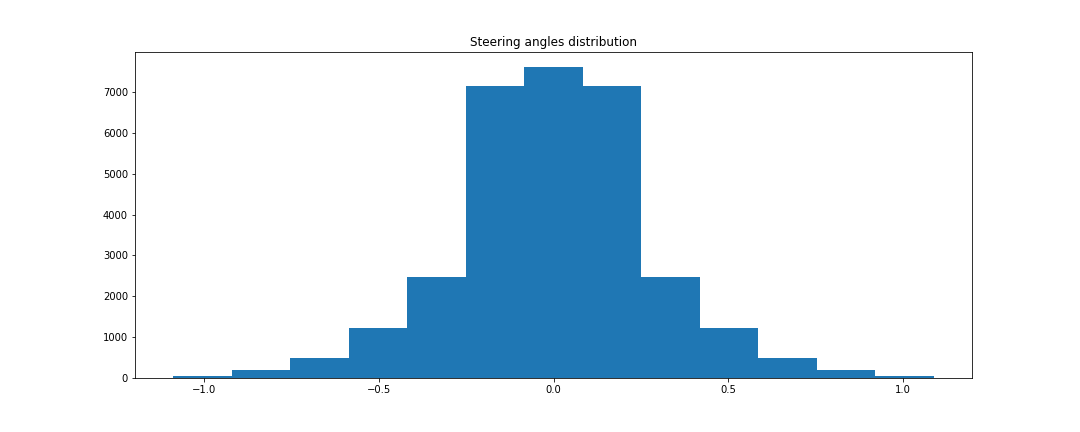
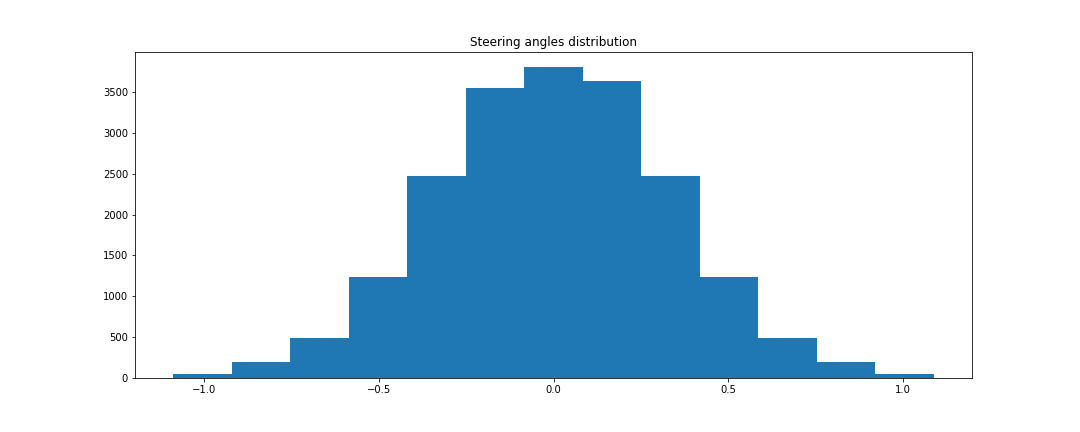
Performance improvements, added dropout

diff --git a/model.py b/model.py
@@ -2,6 +2,8 @@ import os
 import time
 
 import tensorflow as tf
+import matplotlib.pyplot as plt
+import numpy as np
 
 from data_loader import DataLoader
 from image_processor import output_shape
@@ -12,15 +14,21 @@ from sklearn.model_selection import train_test_split
 from keras.models import Model
 from keras.layers import Input, Lambda, Dense, Flatten, Convolution2D, Dropout
 from keras.optimizers import Adam
-from keras.callbacks import TensorBoard
+from keras.callbacks import TensorBoard, EarlyStopping
 
-DATA_DIR = 'data'
+
+DATA_DIR   = 'data'
 TRAIN_FILE = os.path.join(DATA_DIR, 'train.p')
-LOG_FILE = os.path.join(DATA_DIR, 'driving_log.csv')
-IMG_DIR = os.path.join(DATA_DIR, 'IMG')
-LOGS_DIR = './logs'
+LOG_FILE   = os.path.join(DATA_DIR, 'driving_log.csv')
+IMG_DIR    = os.path.join(DATA_DIR, 'IMG')
+LOGS_DIR   = 'logs'
+MODELS_DIR = 'models'
 
-# TODO Create logs dir if does not exist
+if not os.path.isdir(LOGS_DIR):
+    os.makedirs(LOGS_DIR)
+
+if not os.path.isdir(MODELS_DIR):
+    os.makedirs(MODELS_DIR)
 
 flags = tf.app.flags
 FLAGS = flags.FLAGS
@@ -30,92 +38,136 @@ flags.DEFINE_integer('epochs', 3, "The number of epochs.")
 flags.DEFINE_integer('batch_size', 64, "The batch size.")
 flags.DEFINE_float('learning_rate', 0.001, "The learning rate.")
 flags.DEFINE_string('loss', 'mse', 'The loss function')
+flags.DEFINE_float('dropout', 0.2, 'The dropout probabilty')
 
-def build_model(input_shape):
+def build_model(input_shape, dropout_prob = FLAGS.dropout, activation = 'relu'):
     '''
     Defines the keras model based on the Nvidia end-to-end paper: https://arxiv.org/pdf/1604.07316v1.pdf
     '''
     # The images captured by the simulator
-    model_in = Input(shape = input_shape)
-
-    # TODO Test if processing it here would speed up with GPU
-    # model_in = Input(shape = (160, 320, 3))
-    # x = Cropping2D(cropping = ((50, 20), (0, 0)))(model_in)
-    # x = Lambda(lambda x: tf.image.resize_images(x, (200, 66), method = tf.image.ResizeMethod.AREA))(x)
-    # x = Lambda(lambda x: x/255.0 - 0.5)(x)
+    model_in = Input(shape = input_shape) # 200x66@3
 
     # Normalize
     x = Lambda(lambda x: x/255.0 - 0.5)(model_in)
 
     # First three convolutions (filter size 5, stride 2x2)
-    x = Convolution2D(24, 5, 5, subsample=(2, 2), activation='relu')(x)
-    x = Convolution2D(36, 5, 5, subsample=(2, 2), activation='relu')(x)
-    x = Convolution2D(48, 5, 5, subsample=(2, 2), activation='relu')(x)
+    x = Convolution2D(24, 5, 5, subsample = (2, 2), activation = activation)(x) # 98x31@24
+    x = Convolution2D(36, 5, 5, subsample = (2, 2), activation = activation)(x) # 47x14@36
+    x = Convolution2D(48, 5, 5, subsample = (2, 2), activation = activation)(x) #  22x5@48
 
     # An adddional two convolutions with smaller filters (filter size 3)
-    x = Convolution2D(64, 3, 3)(x)
-    x = Convolution2D(64, 3, 3)(x)
+    x = Convolution2D(64, 3, 3, activation = activation)(x) #20x3@64
+    x = Convolution2D(64, 3, 3, activation = activation)(x) #18x1@64
 
     # Flatten
-    x = Flatten()(x)
+    x = Flatten()(x) # 1152
+    x = Dropout(p = dropout_prob)(x)
+    
+    x = Dense(100, activation = activation)(x)
+    x = Dense(50, activation = activation)(x)
+    x = Dense(10, activation = activation)(x)
 
-    x = Dropout(p = 0.5)(x)
-    x = Dense(100)(x)
-    x = Dropout(p = 0.5)(x)
-    x = Dense(50)(x)
-    x = Dense(10)(x)
-
+    # The output is the steering angle
     model_out = Dense(1)(x)
 
     return Model(input = model_in, output = model_out)
 
+def plot_history(model_name, history):
+    
+    train_log = history.history['loss']
+    valid_log = history.history['val_loss']
+    print(history.history)
+    
+    train_loss = train_log[-1]
+    valid_loss = valid_log[-1]
+    
+    text = 'Training/Validation Loss: {:.3f} / {:.3f}'.format(train_loss, valid_loss)
+    
+    colors = plt.rcParams['axes.prop_cycle'].by_key()['color']
+    
+    c1 = colors[0]
+    c2 = colors[1]
+    
+    fig, ax1 = plt.subplots(figsize=(9, 6))
+    
+    ax1.set_xlabel('Epochs')    
+    ax1.set_ylabel('Loss')
+
+    x = np.arange(1, len(train_log) + 1)
+    
+    ax1.plot(x, train_log, label='Train Loss', color = c1)
+    ax1.plot(x, valid_log, label='Validation Loss', color = c2)
+    
+    plt.title("{} (EP: {}, BS: {}, LR: {}, KP: {})".format(
+        model_name, FLAGS.epochs, FLAGS.batch_size, FLAGS.learning_rate, FLAGS.dropout
+    ))
+    
+    fig.text(0.5, 0, text,
+                verticalalignment='top', 
+                horizontalalignment='center',
+                color='black', fontsize=10)
+    
+    
+    handles, labels = ax1.get_legend_handles_labels()
+    
+    fig.legend(handles, labels, loc = (0.7, 0.5))
+    fig.tight_layout()
+    
+    fig.savefig(os.path.join('models', model_name), bbox_inches = 'tight')
+    
+    #plt.show()
+
 def main(_):
     data_loader = DataLoader(TRAIN_FILE, LOG_FILE, IMG_DIR)
 
-    # Loads the dataset
     images, measurements = data_loader.load_dataset()
 
     print('Total samples: {}'.format(images.shape[0]))
 
     # Split in training and validation
     X_train, X_valid, Y_train, Y_valid = train_test_split(images, measurements, 
-                                                        test_size = 0.2, 
-                                                        random_state = 13)
+                                                          test_size = 0.2, 
+                                                          random_state = 13)
 
     print('Training samples: {}'.format(X_train.shape[0]))
     print('Validation samples: {}'.format(X_valid.shape[0]))
 
-    epochs = FLAGS.epochs
-    batch_size = FLAGS.batch_size
-    learning_rate = FLAGS.learning_rate
-    loss = FLAGS.loss
-
-    train_generator = data_loader.generator(X_train, Y_train, batch_size)
-    valid_generator = data_loader.generator(X_valid, Y_valid, batch_size)
+    train_generator = data_loader.generator(X_train, Y_train, FLAGS.batch_size)
+    valid_generator = data_loader.generator(X_valid, Y_valid, FLAGS.batch_size)
 
     model = build_model(output_shape())
 
-    model.compile(optimizer = Adam(lr = learning_rate), loss = loss)
-
-    # print(model.summary())
+    model.compile(optimizer = Adam(lr = FLAGS.learning_rate), loss = FLAGS.loss)
 
     date_time_str = time.strftime('%Y%m%d-%H%M%S')
 
-    # Used for tensor board visualizations
-    callbacks = [TensorBoard(log_dir = os.path.join(LOGS_DIR, date_time_str), 
-                                  histogram_freq = 0,
-                                  write_graph = True,
-                                  write_images = False)]
+    callbacks = [
+        TensorBoard(log_dir = os.path.join(LOGS_DIR, date_time_str), 
+                    histogram_freq = 0,
+                    write_graph = False,
+                    write_images = False),
+        EarlyStopping(monitor='val_loss', 
+                    patience = 3,
+                    verbose = 0, 
+                    mode = 'min')
+    ]
+    
+    print('Training on {} samples (EP: {}, BS: {}, LR: {}, DO: {})...'.format(
+        X_train.shape[0], FLAGS.epochs, FLAGS.batch_size, FLAGS.learning_rate, FLAGS.dropout
+    ))
     
     history = model.fit_generator(train_generator, 
-                                  nb_epoch = epochs,
+                                  nb_epoch = FLAGS.epochs,
                                   samples_per_epoch = X_train.shape[0],
                                   validation_data = valid_generator,
                                   nb_val_samples = X_valid.shape[0],
                                   callbacks = callbacks)
 
-    model.save('model_{}.h5'.format(date_time_str))
+    model_name = 'model_{}'.format(date_time_str)
 
+    model.save(os.path.join(MODELS_DIR, model_name + '.h5'))
+
+    plot_history(model_name, history)
 
 if __name__ == '__main__':
     tf.app.run()

diff --git a/data_loader.py b/data_loader.py
@@ -9,20 +9,25 @@ from tqdm import tqdm
 
 class DataLoader():
 
-    def __init__(self, train_file, log_file, img_folder, angle_correction = 0.2):
+    def __init__(self, train_file, log_file, img_folder, 
+                 angle_correction = 0.2, 
+                 path_separator = '\\',
+                 flip_min_angle = 0.25):
         self.train_file = train_file
         self.log_file = log_file
         self.img_folder = img_folder
         self.angle_correction = angle_correction
+        self.path_separator = path_separator
+        self.flip_min_angle = flip_min_angle
 
-    def load_dataset(self):
-        if os.path.isfile(self.train_file):
-            print('Training file exists, loading...')
-            images, measurements = self._read_pickle()
-        else:
-            print('Training file absent, processing data...')
+    def load_dataset(self, regenerate = False):
+        if regenerate or not os.path.isfile(self.train_file):
+            print('Processing data...')
             images, measurements = self._process_data()
             self._save_pickle(images, measurements)
+        else:
+            print('Training file exists, loading...')
+            images, measurements = self._read_pickle()
         
         return images, measurements
     
@@ -51,7 +56,6 @@ class DataLoader():
     def _process_data(self):
         
         images, measurements = self._load_data_log()
-        images, measurements = self._pack_left_right(images, measurements)
         images, measurements = self._flip_images(images, measurements)
         
         return images, measurements
@@ -64,39 +68,32 @@ class DataLoader():
         with open(self.log_file) as csvfile:
             reader = csv.reader(csvfile)
             for line in tqdm(reader, unit = ' lines', desc = 'CSV Processing'):
-                # Win vs linux separator from the simulator
-                if line[0].find("/") > -1:
-                    sep = '/'
-                else:
-                    sep = '\\'
-                center_img = line[0].split(sep)[-1]
-                left_img = line[1].split(sep)[-1]
-                right_img = line[2].split(sep)[-1]
-                steering_angle, throttle, break_force = line[3:6]
-                images.append((center_img, left_img, right_img))
-                measurements.append((float(steering_angle), float(throttle), float(break_force)))
+                line_images, line_measurements = self._parse_line(line)
+
+                images.extend(line_images)
+                measurements.extend(line_measurements)
                 
         return np.array(images), np.array(measurements)
 
-    def _pack_left_right(self, images, measurements):
-        
-        new_images = []
-        new_measurements = []
-        
-        for image, measurement in tqdm(zip(images, measurements), unit = ' images', desc = 'Left/Right Processing'):
-            _, left_img, right_img = image
-            steering_angle, throttle, break_force = measurement
+    def _parse_line(self, line):
 
-            new_images.append(left_img)
-            new_measurements.append((steering_angle + self.angle_correction, throttle, break_force))
+        images = []
+        measurements = []
 
-            new_images.append(right_img)
-            new_measurements.append((steering_angle - self.angle_correction, throttle, break_force))
-        
-        images_out = np.append(images[:,0], new_images, axis = 0)
-        measurements_out = np.append(measurements, new_measurements, axis = 0)
-        
-        return images_out, measurements_out
+        center_img, left_img, right_img = [img.split(self.path_separator)[-1] for img in line[0:3]]
+        steering_angle, throttle, break_force = [float(value) for value in line[3:6]]
+
+        # Center image
+        images.append(center_img)
+        measurements.append((steering_angle, throttle, break_force))
+        # Left image
+        images.append(left_img)
+        measurements.append((steering_angle + self.angle_correction, throttle, break_force))
+        # Right image
+        images.append(right_img)
+        measurements.append((steering_angle - self.angle_correction, throttle, break_force))
+
+        return images, measurements
 
     def _flip_images(self, images, measurements):
         
@@ -105,12 +102,13 @@ class DataLoader():
         
         for image, measurement in zip(tqdm(images, unit=' images', desc='Flipping'), measurements):
             steering_angle, throttle, break_force = measurement
-            img = cv2.imread(os.path.join(self.img_folder, image))
-            img_flipped = cv2.flip(img, 1)
-            img_filpped_name = 'flipped_' + image
-            cv2.imwrite(os.path.join(self.img_folder, img_filpped_name), img_flipped)
-            new_images.append(img_filpped_name)
-            new_measurements.append((-steering_angle, throttle, break_force))
+            if steering_angle >= self.flip_min_angle or steering_angle <= -self.flip_min_angle:
+                img = cv2.imread(os.path.join(self.img_folder, image))
+                img_flipped = cv2.flip(img, 1)
+                img_filpped_name = 'flipped_' + image
+                cv2.imwrite(os.path.join(self.img_folder, img_filpped_name), img_flipped)
+                new_images.append(img_filpped_name)
+                new_measurements.append((-steering_angle, throttle, break_force))
         
         images_out = np.append(images, new_images, axis = 0)
         measurements_out = np.append(measurements, new_measurements, axis = 0)
